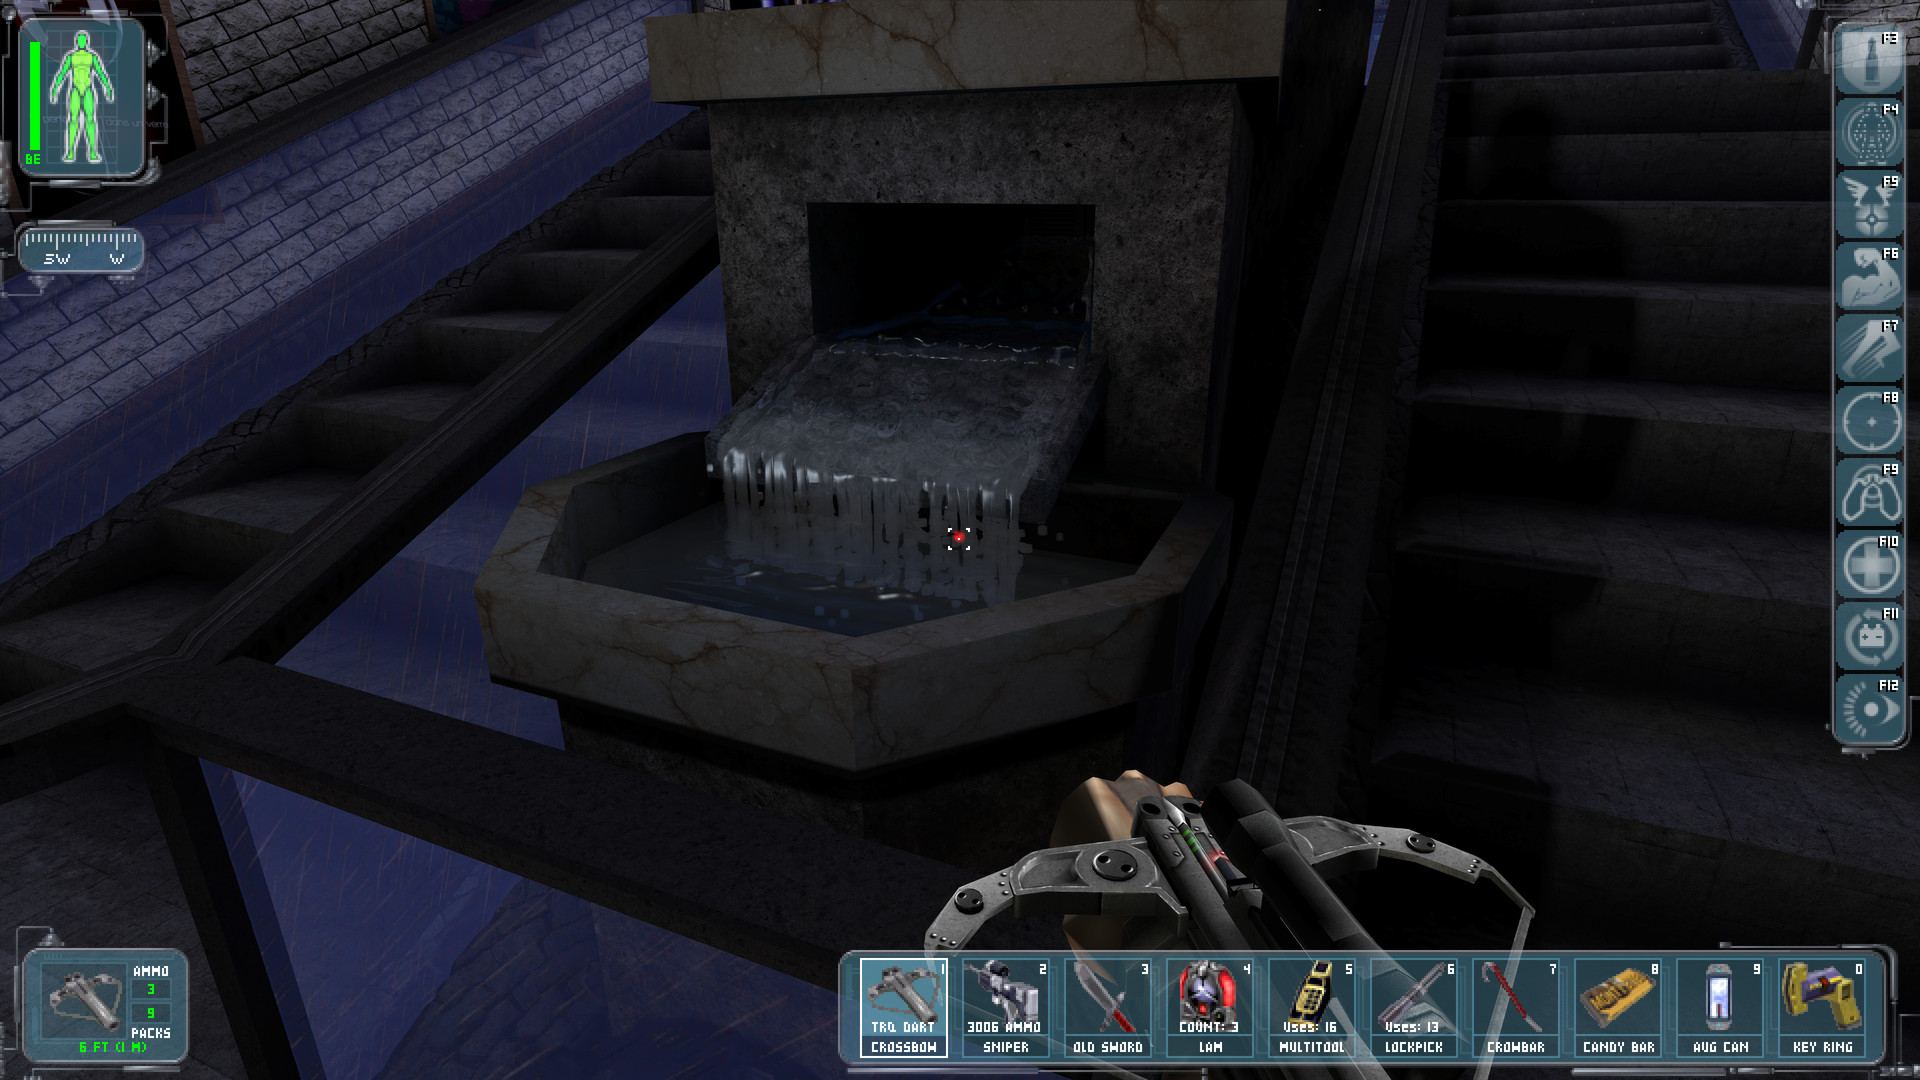
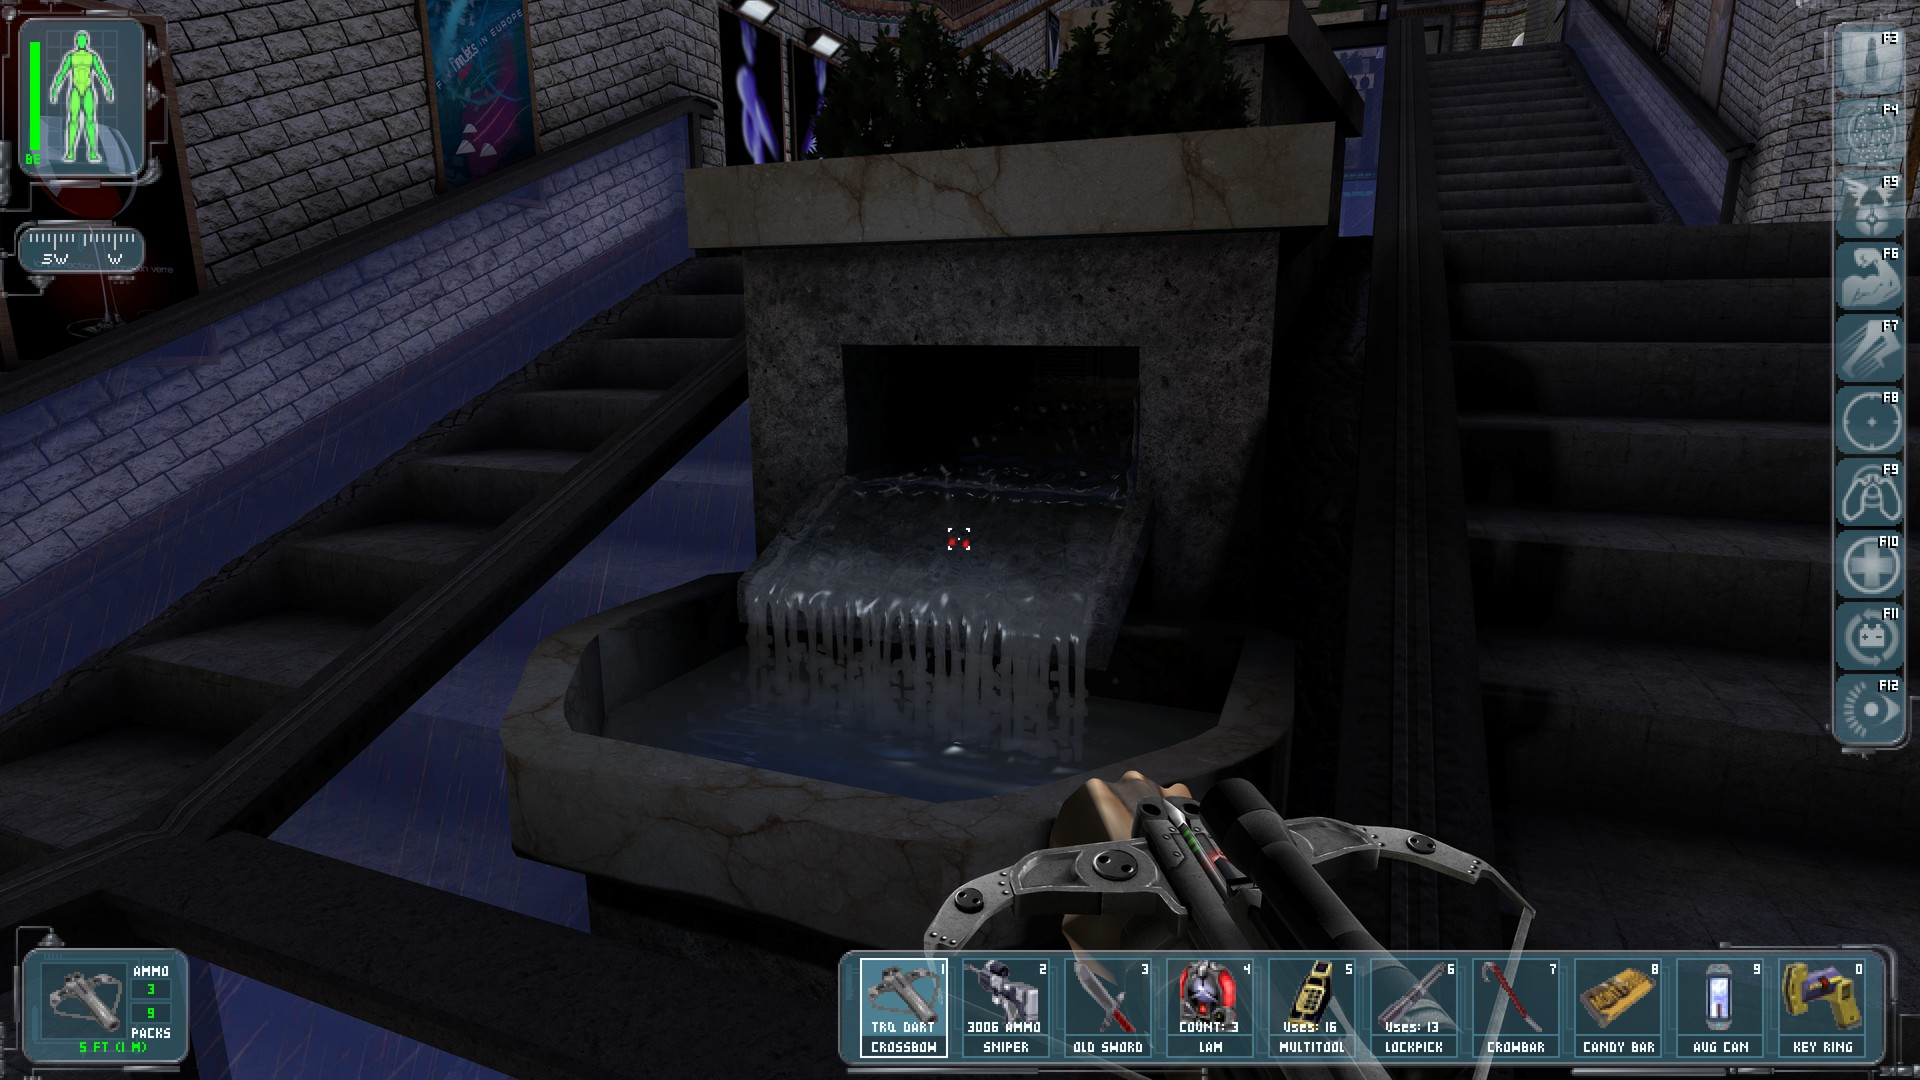
Screenshots: 07, 08, 09 retaken, 14 added

diff --git a/README.md b/README.md
@@ -19,7 +19,7 @@ Click a picture to see it at full size.
 | ![Vanilla](screenshots/11-Vanilla.jpg) | ![I Never Asked For This](screenshots/11-INeverAskedForThis.jpg) |
 
 <details>
-<summary>9 more pairs</summary>
+<summary>11 more pairs</summary>
 
 | Vanilla | I Never Asked For This |
 |:---:|:---:|
@@ -33,6 +33,7 @@ Click a picture to see it at full size.
 | ![Vanilla](screenshots/10-Vanilla.jpg) | ![I Never Asked For This](screenshots/10-INeverAskedForThis.jpg) |
 | ![Vanilla](screenshots/12-Vanilla.jpg) | ![I Never Asked For This](screenshots/12-INeverAskedForThis.jpg) |
 | ![Vanilla](screenshots/13-Vanilla.jpg) | ![I Never Asked For This](screenshots/13-INeverAskedForThis.jpg) |
+| ![Vanilla](screenshots/14-Vanilla.jpg) | ![I Never Asked For This](screenshots/14-INeverAskedForThis.jpg) |
 
 </details>
 
